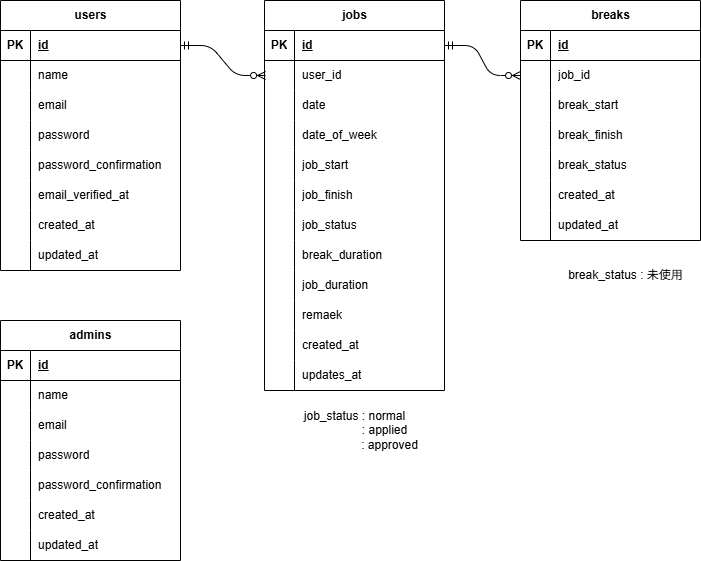
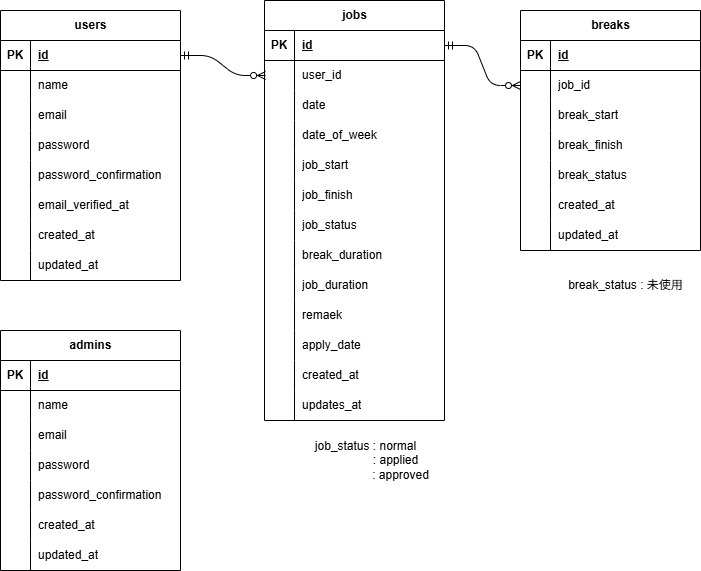
README.md,ERD update

diff --git a/README.md b/README.md
@@ -221,13 +221,11 @@ DB_PASSWORD=root
 
 ### APP_KEY 作成
 
-### テスト用テーブルのマイグレーション
-
 ```
-コピー
 php artisan key:generate --env=testing
-php artisan config:clear
 ```
+
+### テスト用テーブルのマイグレーション
 
 ```
 php artisan migrate --env=testing
@@ -275,9 +273,9 @@ php artisan test
 
 image.png
 
----
-
 ![clockIn.png](clockIn.png)
+
+---
 
 # 4）URL
 
